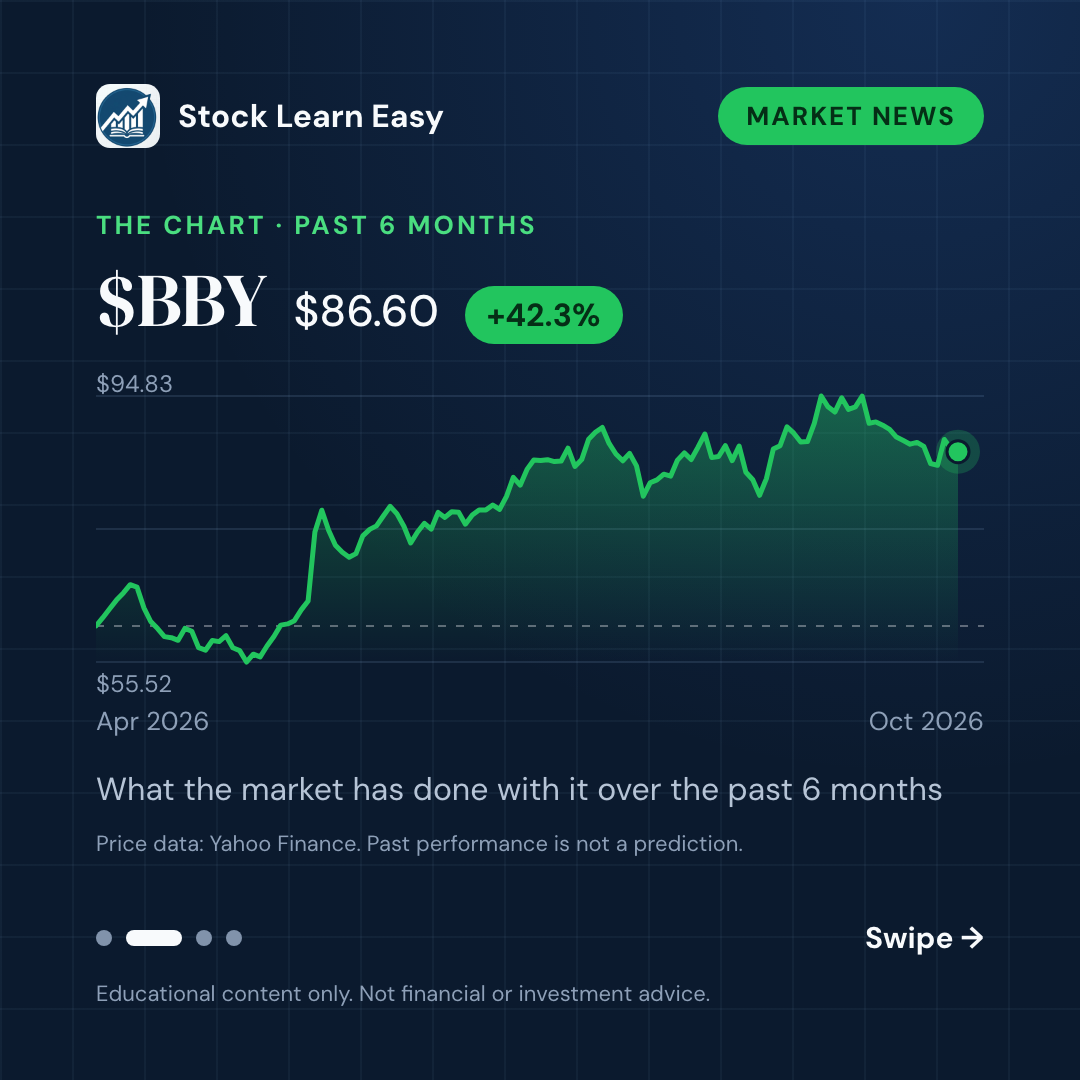
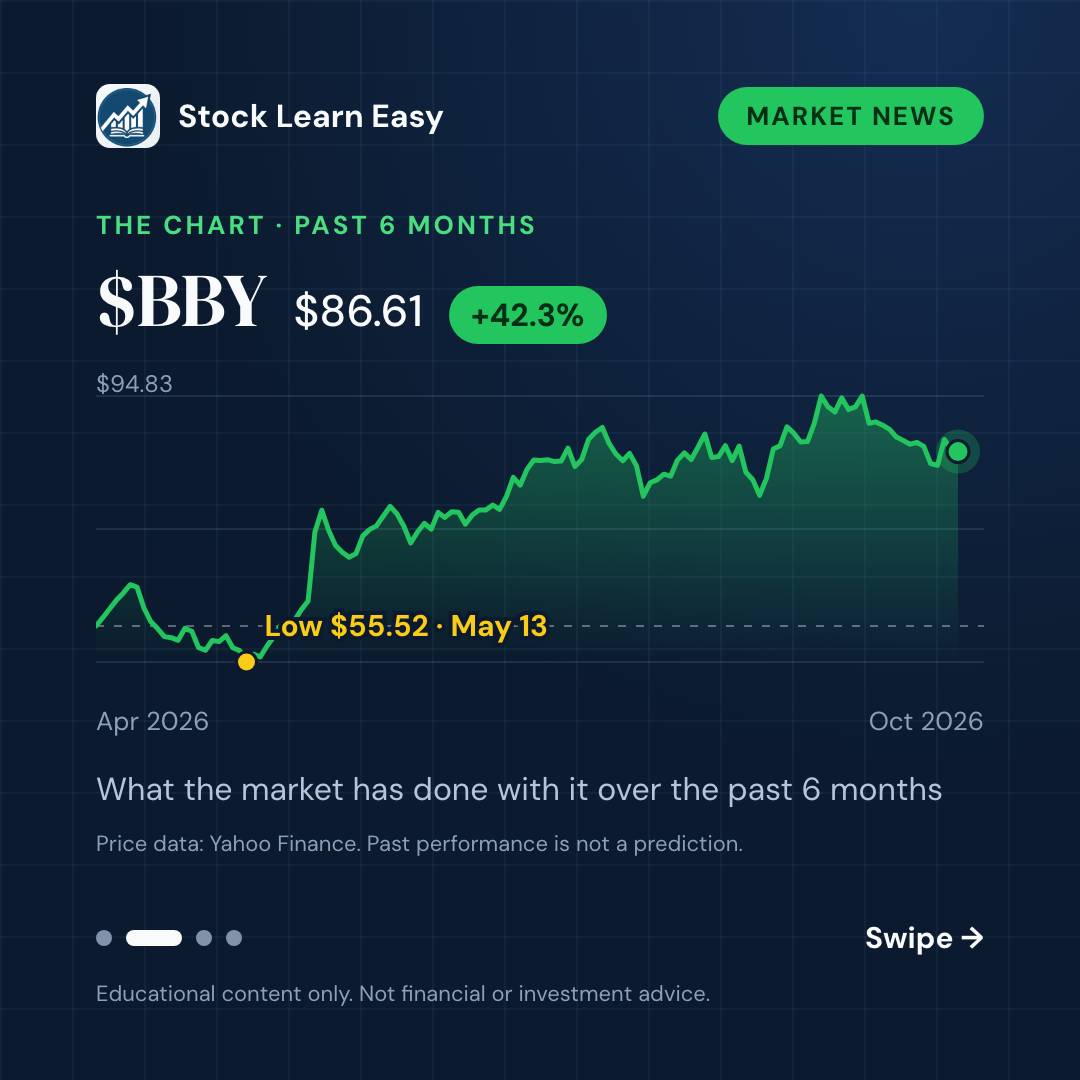
Items 40 and 44: send-to-a-friend judge with one rewrite, labelled high/low point on charts

Changed region(s): [[0.2139, 0.55, 0.5194, 0.6417], [0.3667, 0.2444, 0.5806, 0.3361], [0.0917, 0.6111, 0.1528, 0.6417]]

diff --git a/generate.py b/generate.py
@@ -516,6 +516,42 @@ def _clean_copy(raw, category, news=None, term=None, recent_openings=(),
     return out, []
 
 
+# Backlog item 40 (12.10.2026). Every gate above checks a rule; none checks
+# whether the post is worth anything. So once the copy is clean, a second model
+# call reads the four slides cold and answers the only question the ranker
+# cares about: would a stranger send this to a friend. A "no" costs one
+# rewrite with its reason attached, never more than one, and a judge that
+# cannot be reached or answers garbage lets the post through: this is a
+# quality nudge, not a reason to fall back to the template copy.
+_SEND_CHECK_PROMPT = """You are a 25-year-old who has never bought a stock, scrolling Instagram. A carousel from an account you do not follow shows you these four slides:
+
+1. {hook}
+2. {concept}: {explain}
+3. {takeaway}
+4. {question}
+
+Would you send this post to a friend? Be honest and strict: most posts do not get sent. Say yes only if it contains something specific you would want to show someone, a surprising number, a fact that changes how you see money, a line you would repeat. A post that is correct but generic is a no.
+
+Return ONLY a JSON object: {{"send": true or false, "reason": "one sentence: what is missing, or what made it worth sending"}}"""
+
+
+def send_check(copy):
+    """(verdict, reason). verdict is None when the judge could not answer."""
+    ask = _SEND_CHECK_PROMPT.format(**{k: copy[k] for k in
+                                      ("hook", "concept", "explain", "takeaway", "question")})
+    try:
+        result = subprocess.run(
+            ["with-claude-token", "claude", "-p", ask, "--output-format", "text"],
+            capture_output=True, text=True, timeout=COPY_TIMEOUT, check=True,
+        )
+        match = re.search(r"\{.*\}", result.stdout, re.DOTALL)
+        data = json.loads(match.group(0))
+        return bool(data["send"]), str(data.get("reason", "")).strip()
+    except Exception as e:
+        print(f"WARNING: send check unavailable ({e}), shipping without it", file=sys.stderr)
+        return None, ""
+
+
 # Three attempts, not two. A single retry was enough when the only gate was
 # length; with the content gates added on 4.10.2026 a first answer fails
 # something about a third of the time, and a third pass is still cheaper than
@@ -550,7 +586,7 @@ def write_post_copy(category, news=None, term=None, ticker=None,
     if question_hook:
         prompt += QUESTION_HOOK_PROMPT
 
-    best, ask = None, prompt
+    best, ask, send_checked = None, prompt, False
     for attempt in range(1, _COPY_ATTEMPTS + 1):
         try:
             result = subprocess.run(
@@ -566,6 +602,15 @@ def write_post_copy(category, news=None, term=None, ticker=None,
                 last_attempt=(attempt == _COPY_ATTEMPTS),
                 question_hook=question_hook,
             )
+            if parsed and not problems and not send_checked and attempt < _COPY_ATTEMPTS:
+                send_checked = True
+                verdict, reason = send_check(parsed)
+                print(f"send check for '{category}': {verdict} ({reason})", file=sys.stderr)
+                if verdict is False:
+                    problems = ["a cold reader said they would not send this post to a "
+                                f"friend: {reason or 'too generic'}. Keep every rule, but "
+                                "give it the specific number or fact that makes it worth "
+                                "showing someone"]
             if parsed and not problems:
                 return parsed, prompt
             if parsed is not None:

diff --git a/market_data.py b/market_data.py
@@ -171,6 +171,36 @@ def sparkline_svg(series, width=840, height=380):
         f'stroke="rgba(248,250,252,0.35)" stroke-width="2" stroke-dasharray="8 10"/>'
     )
 
+    # Backlog item 44 (12.10.2026). A bare line says "it went up or down"; one
+    # labelled point says by how much from where. The point picked is whichever
+    # extreme of the window sits further from today's value, so a rising chart
+    # marks its low and a falling one its peak: the distance the reader is
+    # actually being asked to look at. Skipped when that extreme is in the last
+    # tenth of the window, where it would sit on top of the endpoint marker.
+    pts = series.get("points") or []
+    hi_i, lo_i = values.index(hi), values.index(lo)
+    mark_i = hi_i if (hi - series["last"]) >= (series["last"] - lo) else lo_i
+    marker = ""
+    drop_axis = None
+    if pts and mark_i < n * 0.9 and hi != lo:
+        mx, my = coords[mark_i]
+        is_high = mark_i == hi_i
+        when = datetime.fromtimestamp(pts[mark_i][0], timezone.utc).strftime("%b %-d")
+        text = f'{"High" if is_high else "Low"} {fmt_price(values[mark_i], series["currency"])} · {when}'
+        anchor = "start" if mx < width * 0.3 else ("end" if mx > width * 0.7 else "middle")
+        tx = mx + 18 if anchor == "start" else (mx - 18 if anchor == "end" else mx)
+        # Inside the plot, on the far side from the line, so the label never
+        # leaves the SVG: under a peak, over a trough.
+        ty = my + 48 if is_high else my - 26
+        marker = (
+            f'<circle cx="{mx:.1f}" cy="{my:.1f}" r="10" fill="#facc15" stroke="#0b1a2e" stroke-width="3"/>'
+            f'<text x="{tx:.1f}" y="{ty:.1f}" text-anchor="{anchor}" fill="#facc15" '
+            f'font-family="DM Sans, Helvetica Neue, Arial, sans-serif" font-size="30" font-weight="700" '
+            f'stroke="#0b1a2e" stroke-width="8" paint-order="stroke">{text}</text>'
+        )
+        # The axis label for the same extreme now says the same number twice.
+        drop_axis = "hi" if is_high else "lo"
+
     start_label = series["start"].strftime("%b %Y")
     end_label = series["end"].strftime("%b %Y")
     font = "DM Sans, Helvetica Neue, Arial, sans-serif"
@@ -194,10 +224,9 @@ def sparkline_svg(series, width=840, height=380):
         font-family="{font}" font-size="26">{start_label}</text>
   <text x="{width}" y="{height - 14}" text-anchor="end" fill="{label}"
         font-family="{font}" font-size="26">{end_label}</text>
-  <text x="0" y="{pad_top - 4}" fill="{label}"
-        font-family="{font}" font-size="24">{fmt_price(hi, series['currency'])}</text>
-  <text x="0" y="{pad_top + plot_h + 30}" fill="{label}"
-        font-family="{font}" font-size="24">{fmt_price(lo, series['currency'])}</text>
+  {"" if drop_axis == "hi" else f'<text x="0" y="{pad_top - 4}" fill="{label}" font-family="{font}" font-size="24">{fmt_price(hi, series["currency"])}</text>'}
+  {"" if drop_axis == "lo" else f'<text x="0" y="{pad_top + plot_h + 30}" fill="{label}" font-family="{font}" font-size="24">{fmt_price(lo, series["currency"])}</text>'}
+  {marker}
 </svg>"""
 
 
